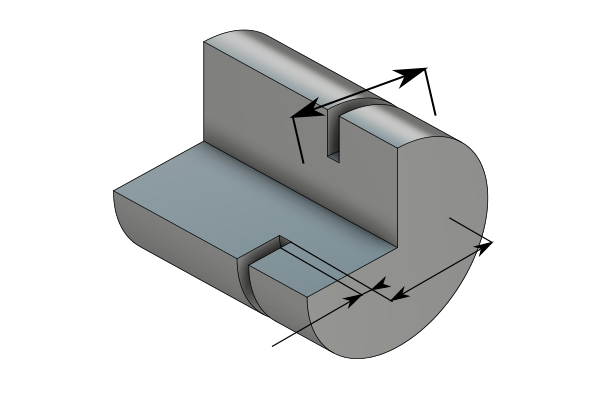
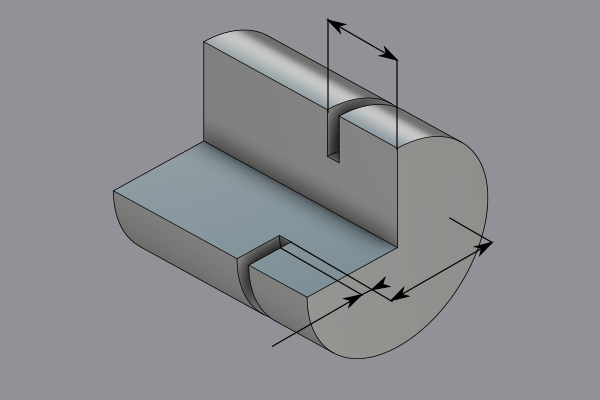
Add Groove Z dimension to groove diagram
Vertical leaders at groove wall and workpiece end face, span at -150°
(parallel to Z axis). Label position updated to SVG (905,100) near span.
render_groove.py added to regenerate groove_rendered.png if needed.

diff --git a/user_tabs/lathe_macros/render_groove.py b/user_tabs/lathe_macros/render_groove.py
@@ -1,0 +1,62 @@
+#!/usr/bin/env python3
+"""Regenerate groove_rendered.png from LatheMacro.svg (gmoccapy V3)."""
+import gi
+gi.require_version('Rsvg', '2.0')
+from gi.repository import Rsvg
+import cairo, xml.etree.ElementTree as ET, io, math, os
+
+SVG_PATH = os.path.join(os.path.dirname(__file__),
+    '..', '..', '..', 'gmoccapy_lathe', 'lathe_macros_V3', 'LatheMacro.svg')
+OUT_PATH = os.path.join(os.path.dirname(__file__), 'groove_rendered.png')
+W, H = 600, 400
+
+# ---------------------------------------------------------------------------
+# Groove Z dimension paths (injected into layer6 at render time)
+# Groove-wall leader : x=820 SVG,  top y=46.1,  bottom y=282.5
+# End-face leader    : x=992.5 SVG, top y=150,   bottom y=375
+# Span at -150° (Z-axis direction) connecting them
+# ---------------------------------------------------------------------------
+GX, EX = 820.0, 992.5
+SPAN_EY = 150.0
+SPAN_GY = SPAN_EY + (GX - EX) * (0.500 / 0.866)   # = 46.1
+
+SPAN_S = ('fill:none;stroke:#000000;stroke-width:3;stroke-linecap:butt;'
+          'stroke-linejoin:miter;stroke-opacity:1;'
+          'marker-start:url(#marker15083);marker-end:url(#marker14839)')
+LINE_S  = ('fill:none;stroke:#000000;stroke-width:3;stroke-linecap:butt;'
+           'stroke-linejoin:miter;stroke-opacity:1')
+
+GZ_PATHS = [
+    f'<path style="{LINE_S}" d="M {GX},{SPAN_GY:.1f} {GX},282.5" id="gz_tick_groove"/>',
+    f'<path style="{LINE_S}" d="M {EX},{SPAN_EY} {EX},375"       id="gz_tick_face"/>',
+    f'<path style="{SPAN_S}" d="M {EX},{SPAN_EY} {GX},{SPAN_GY:.1f}" id="gz_span"/>',
+]
+
+tree = ET.parse(SVG_PATH)
+root = tree.getroot()
+ns_ink = 'http://www.inkscape.org/namespaces/inkscape'
+
+for elem in root.iter():
+    mode = elem.get(f'{{{ns_ink}}}groupmode', '')
+    if mode == 'layer':
+        elem.set('style', 'display:inline' if elem.get('id') == 'layer6' else 'display:none')
+
+for elem in root.iter():
+    if elem.get('id') == 'layer6':
+        for p in GZ_PATHS:
+            elem.append(ET.fromstring(p))
+        break
+
+buf = io.BytesIO()
+tree.write(buf)
+handle = Rsvg.Handle.new_from_data(buf.getvalue())
+dim = handle.get_dimensions()
+
+surface = cairo.ImageSurface(cairo.FORMAT_ARGB32, W, H)
+ctx = cairo.Context(surface)
+ctx.set_source_rgb(0.57, 0.57, 0.59)
+ctx.paint()
+ctx.scale(W / dim.width, H / dim.height)
+handle.render_cairo(ctx)
+surface.write_to_png(OUT_PATH)
+print(f"Saved {OUT_PATH}")

diff --git a/user_tabs/lathe_macros/lathe_macros.py b/user_tabs/lathe_macros/lathe_macros.py
@@ -99,7 +99,7 @@ LABELS = {
     ],
     'groove': [
         ((1050, 600), 'Groove Diameter'),
-        (( 710, 330), 'Groove Z'),
+        (( 905, 100), 'Groove Z'),
         (( 680, 885), 'Feed Rate'),
     ],
     'drill': [